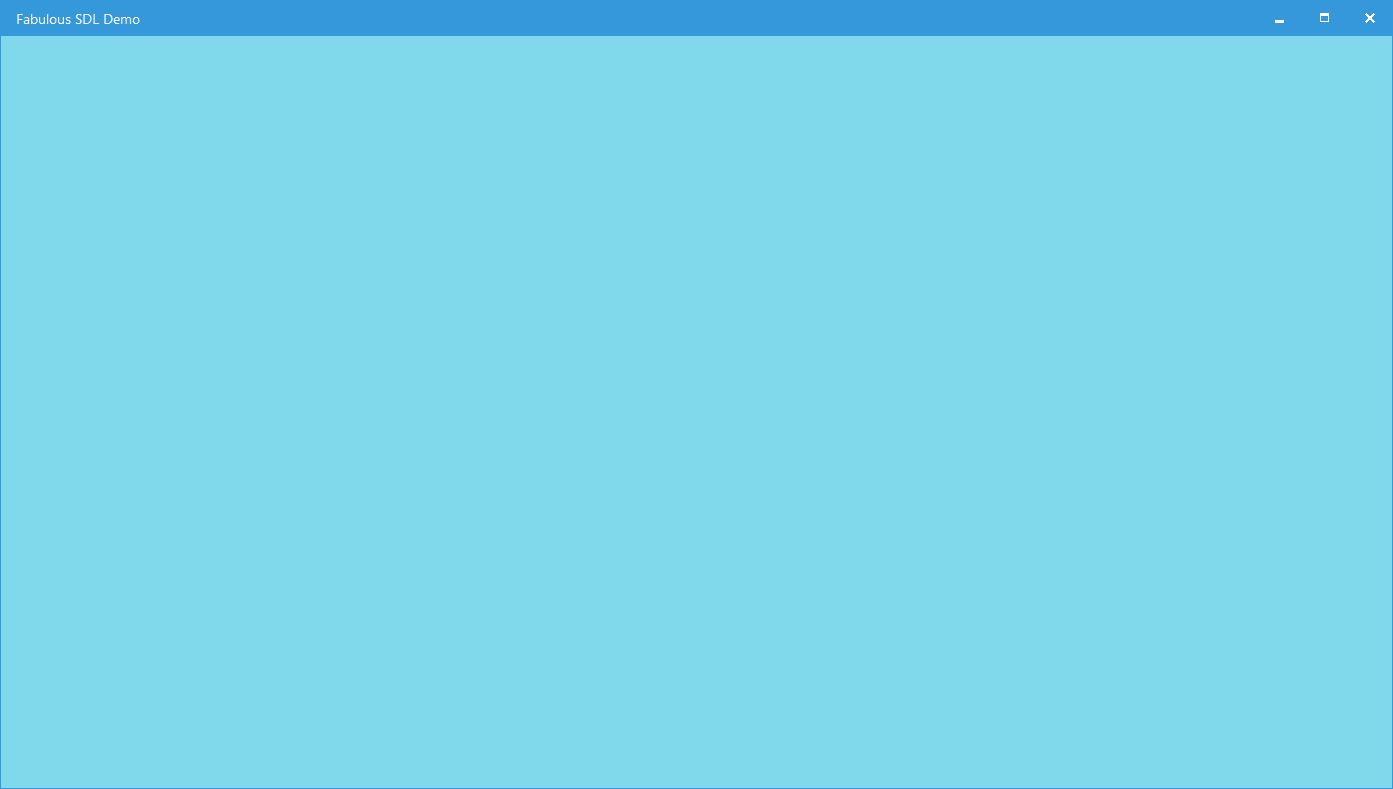
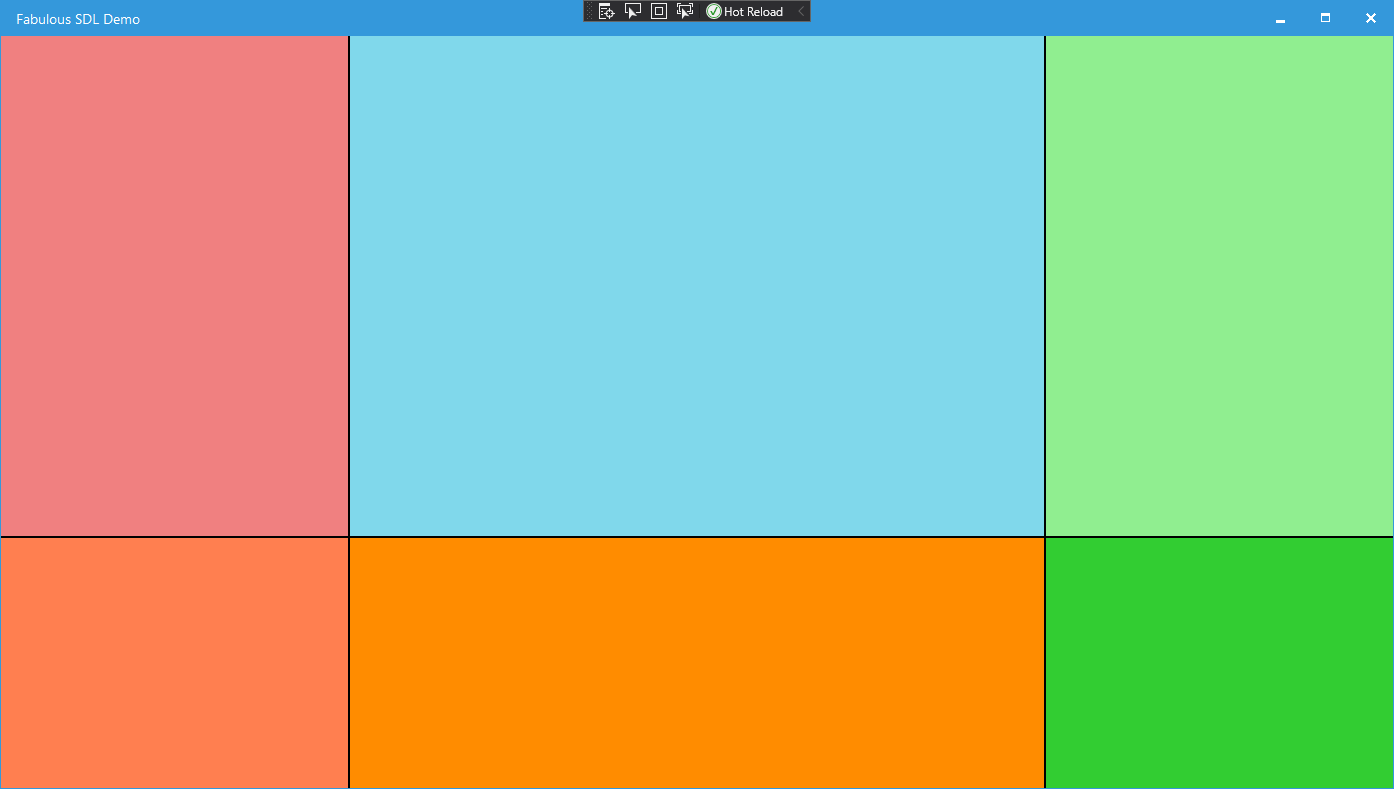
Update README

diff --git a/README.md b/README.md
@@ -1,5 +1,6 @@
-<p align="center"><img src="https://github.com/BeardedPlatypus/FabulousSDL/blob/master/FabulousSDL.png?raw=true" alt="InteropWindow" title="InteropWindow" width=80% /></p>
-*Demo application, the blue window is rendered by the SDL2 Code*
+<p align="center"><img src="https://github.com/BeardedPlatypus/FabulousSDL/blob/master/FabulousSDL.png?raw=true" alt="InteropWindow" title="InteropWindow" width=100% /></p>
+
+*Demo application, the blue top-middle window is rendered by the native SDL2 Code*
 
 # Hosting a C++ SDL2 Window within a Fabulous WPF application
 
@@ -76,5 +77,5 @@ directly in F#. However the current code seem so to work for this minimal exampl
 * [SDL2 Home Page](https://www.libsdl.org/)
 * [msdn: implementing a custom renderer](https://docs.microsoft.com/en-us/xamarin/xamarin-forms/app-fundamentals/custom-renderer/view)
 * [Hosting a C++ D3D engine C# winforms](https://www.gamedev.net/articles/programming/graphics/hosting-a-c-d3d-engine-in-c-winforms-r2526/)
-
+* [Hosting a Win32 window in WPF sample](https://github.com/Microsoft/WPF-Samples/tree/master/Migration%20and%20Interoperability/WPFHostingWin32Control)
 
